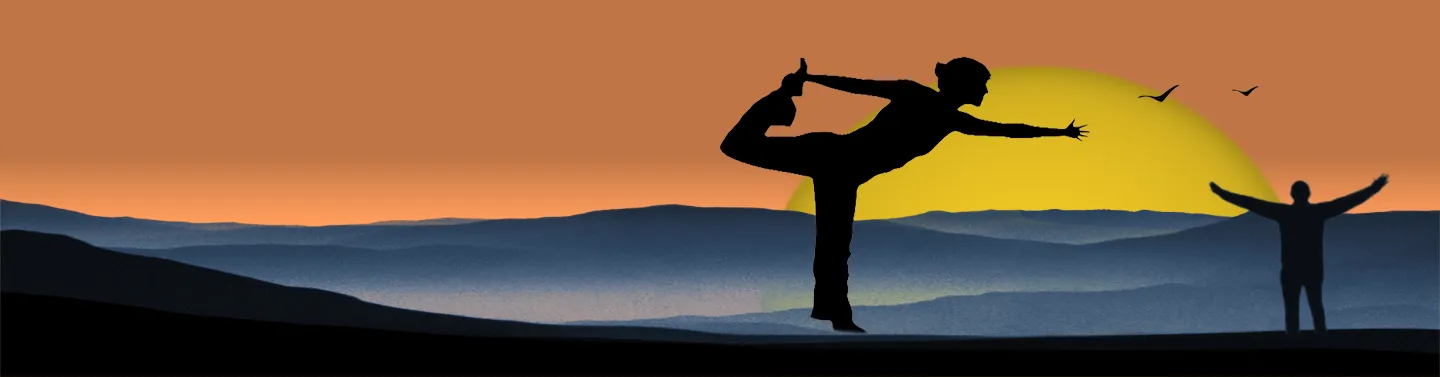
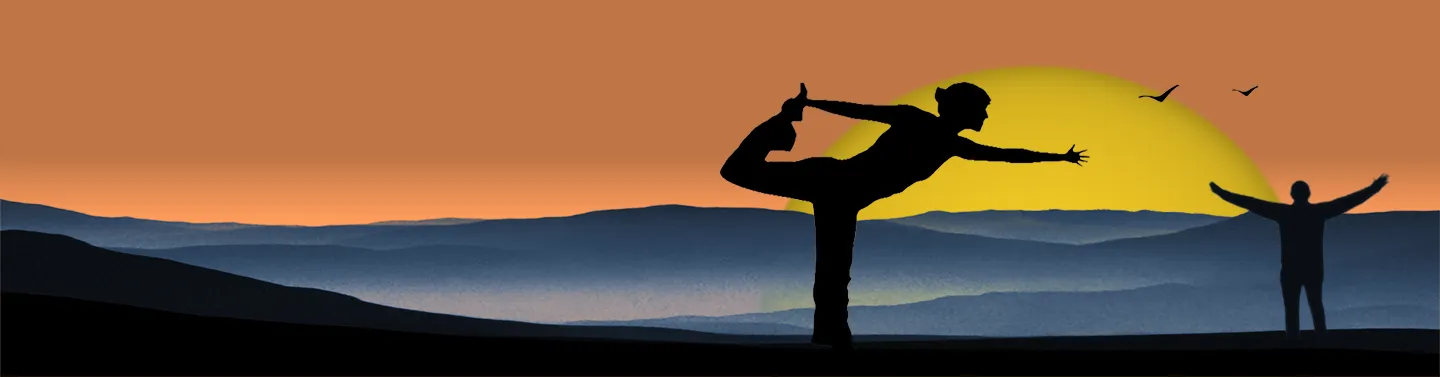
fixed a problem with the hero image

Changed region(s): [[0.5, 0.1459, 0.7812, 0.5544], [0.5625, 0.817, 0.5938, 0.9337], [0.5625, 0.6419, 0.5938, 0.7294]]

diff --git a/README.md b/README.md
@@ -75,6 +75,36 @@ Copy `.env.example` to `.env`:
 | `npm run generate:types`     | Regenerate `payload-types.ts` |
 | `npm run generate:importmap` | Regenerate admin import map   |
 
+## Known security advisory — tinypool (critical, dev-only)
+
+`npm audit` currently reports a **critical** severity finding:
+
+- **Package:** `tinypool` ≤ 2.1.1 (installed transitively via `vitest` 3.2.7, a devDependency)
+- **Issue:** Prototype pollution gadgets that can lead to Remote Code Execution —
+  [GHSA-5gmw-xhrv-c9v3](https://github.com/advisories/GHSA-5gmw-xhrv-c9v3) and
+  [GHSA-85c8-ppgw-ccpr](https://github.com/advisories/GHSA-85c8-ppgw-ccpr)
+- **Impact on this app: none in production.** tinypool is a test-runner worker-pool
+  used only by `vitest` (the `npm test` tooling). Production (`npm run start` /
+  Render) never loads it, so the deployed site is not exposed. The finding affects
+  local development/test environments only.
+- **Why it isn't fixed yet:** the patched tinypool (2.1.2) is a different major
+  than the `^1.1.1` range that vitest 3.x declares, so plain `npm audit fix` cannot
+  resolve it. npm's suggested `npm audit fix --force` would jump vitest to 5.x — a
+  major breaking change. Deliberately deferred (2026-10-26) to avoid churn.
+- **Planned remediation (when ready):** upgrade the devDependency to
+  `vitest@^4.1.12` — vitest 4.x drops tinypool from its dependency tree entirely,
+  clearing the tinypool, vitest, and `@vitest/mocker` advisories in one step with
+  the smallest major jump. The app's vitest usage (a minimal `vitest.config.ts` and
+  two standard-API test files) is compatible with v4. After upgrading, verify with
+  `npm audit` and the full test suite (`npm test`, 33 tests) before committing.
+- **Other audit findings (for the same review):** the `undici` HIGH finding (via
+  `payload`) is fixable later by bumping `payload` **and all `@payloadcms/*`
+  packages together** from 3.91.0 → 3.92.0 — Payload requires exact version
+  matching across its packages, so never bump just one. The remaining
+  moderate/high findings (`esbuild`, `drizzle-kit`, `@tailwindcss/typography`,
+  `happy-dom`/`@lexical/headless`) currently have no forward fix — npm only offers
+  downgrades, which are not recommended; revisit when upstream publishes patches.
+
 ## File storage
 
 | Environment    | Behavior                                                                                                                                                                                                                                                                                                                                                                                                        |
